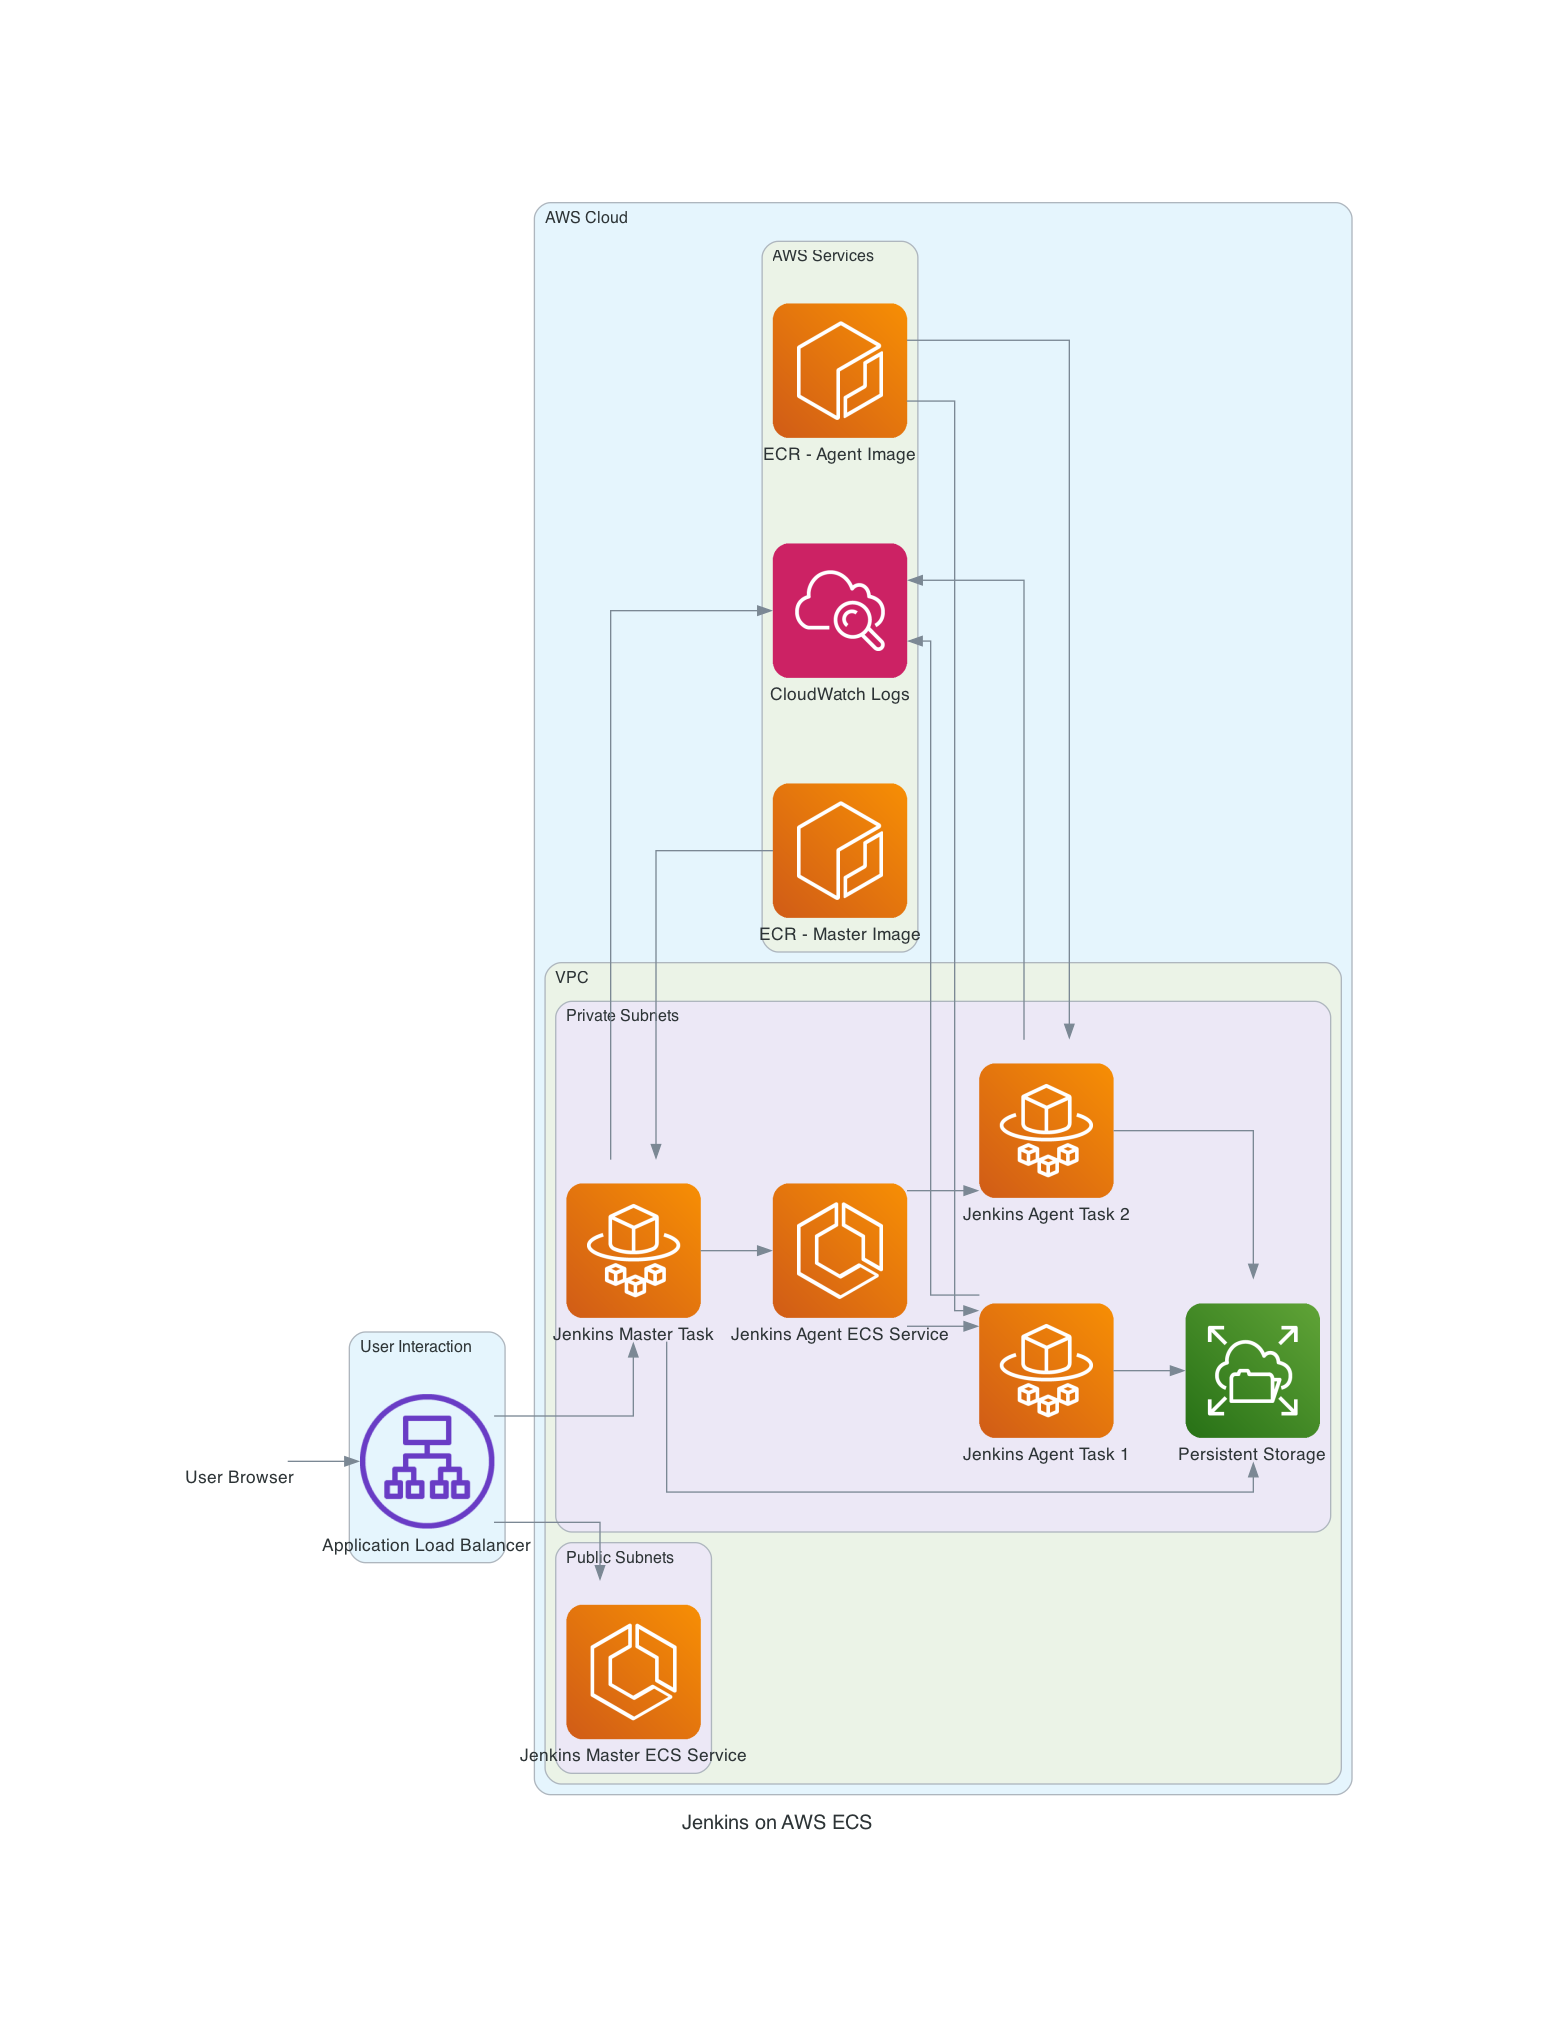
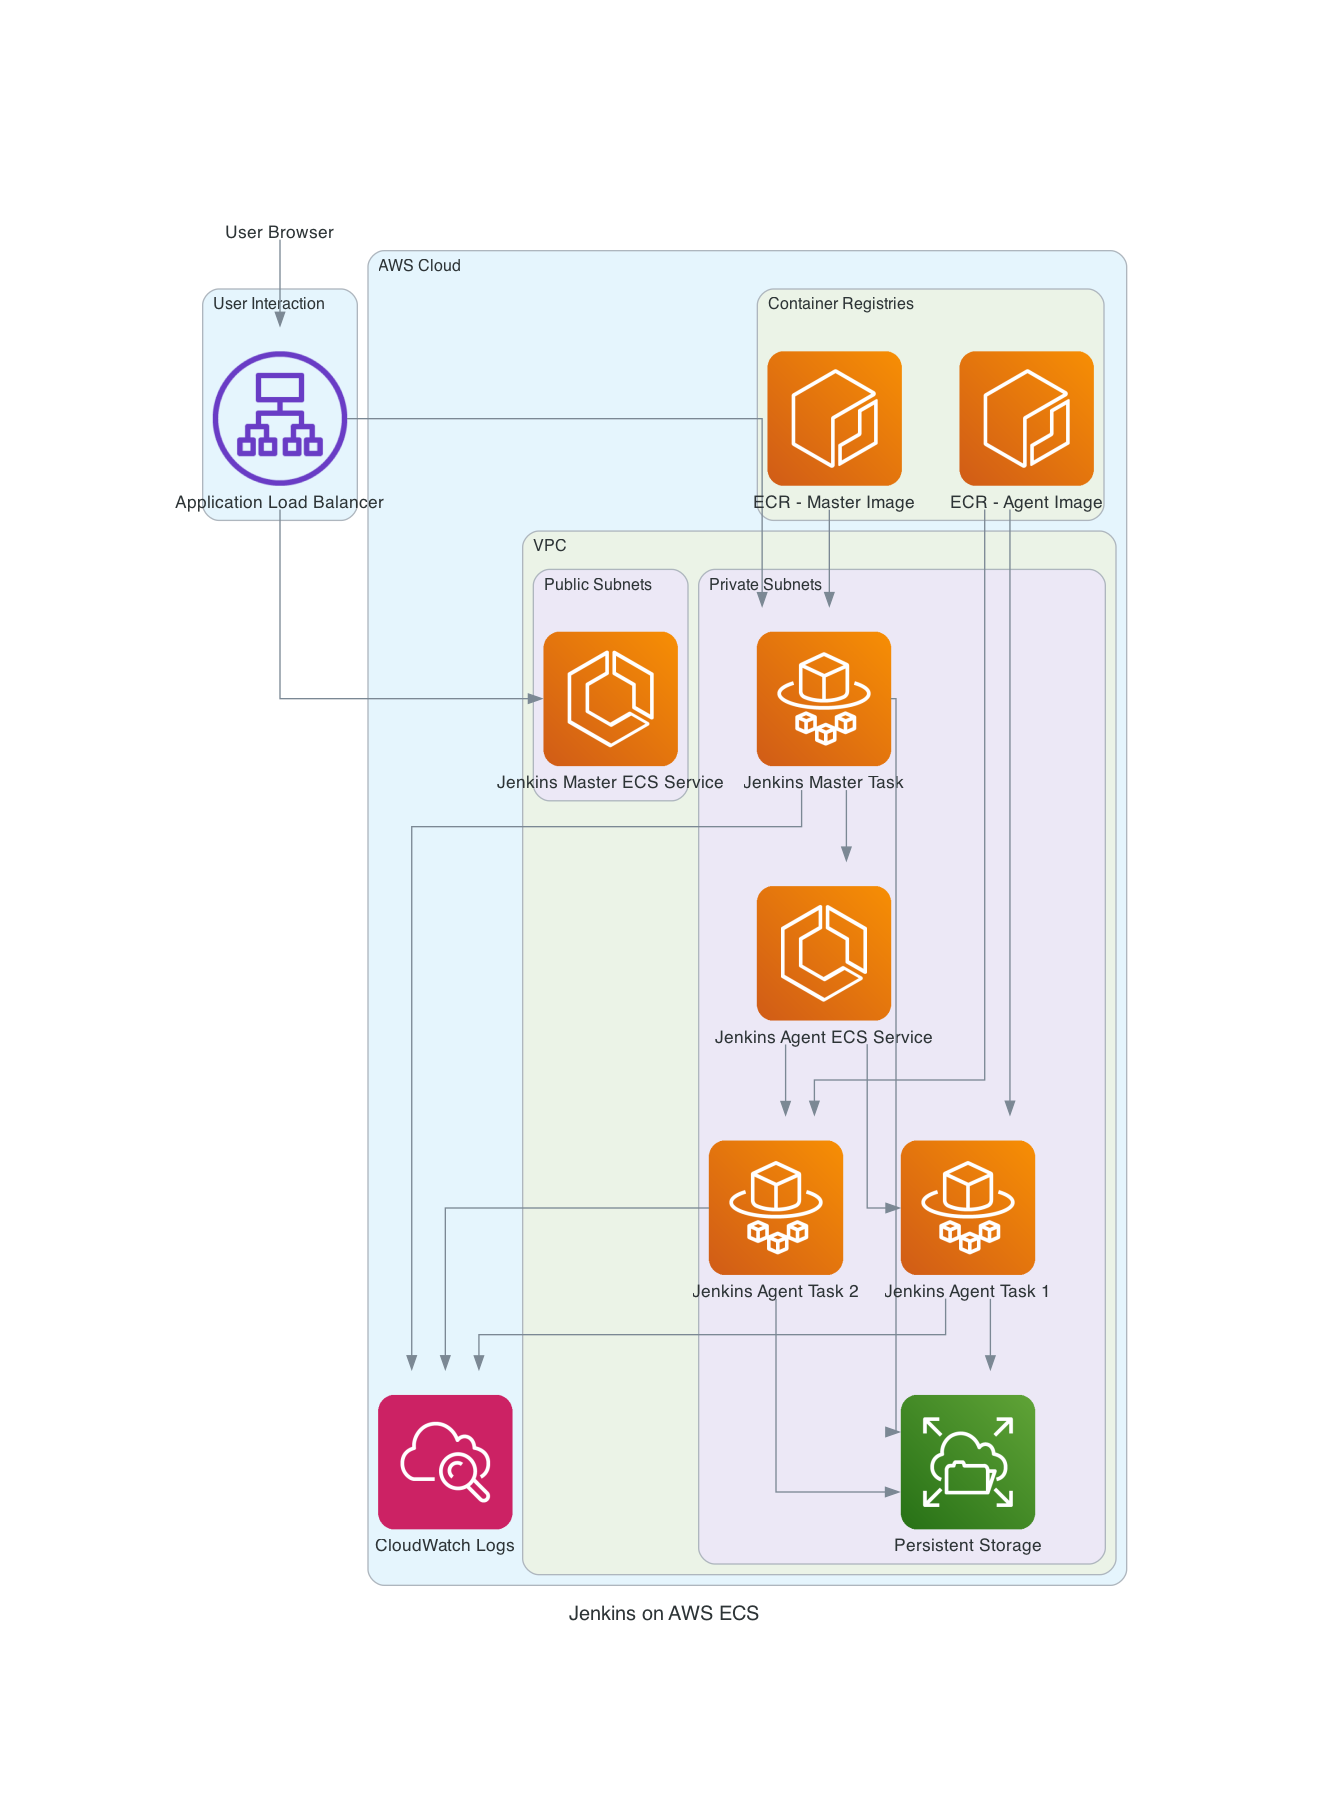
docs: update architecture diagram layout from LR to TB with regrouped services

Changed region(s): [[0.1234, 0.0923, 0.8947, 0.9231], [0.7404, 0.4615, 0.7713, 0.5231], [0.1234, 0.7077, 0.1851, 0.7385]]

diff --git a/docs/generate_diagram.py b/docs/generate_diagram.py
@@ -4,7 +4,7 @@ from diagrams.aws.network import ALB
 from diagrams.aws.storage import EFS
 from diagrams.aws.management import Cloudwatch
 
-with Diagram("Jenkins on AWS ECS", show=False, direction="LR"):
+with Diagram("Jenkins on AWS ECS", show=False, direction="TB"):
     # Using a generic node to represent the user browser
     from diagrams import Node
     user_browser = Node("User Browser", shape="none", height="0.5", width="1.0")
@@ -14,6 +14,12 @@ with Diagram("Jenkins on AWS ECS", show=False, direction="LR"):
         user_browser >> alb
 
     with Cluster("AWS Cloud"):
+        cloudwatch = Cloudwatch("CloudWatch Logs")
+
+        with Cluster("Container Registries"):
+            ecr_master = ECR("ECR - Master Image")
+            ecr_agent = ECR("ECR - Agent Image")
+
         with Cluster("VPC"):
             with Cluster("Public Subnets"):
                 alb >> ECS("Jenkins Master ECS Service")
@@ -25,6 +31,9 @@ with Diagram("Jenkins on AWS ECS", show=False, direction="LR"):
                 jenkins_agent_task_2 = Fargate("Jenkins Agent Task 2")
                 efs = EFS("Persistent Storage")
 
+                ecr_master >> jenkins_master_task
+                ecr_agent >> [jenkins_agent_task_1, jenkins_agent_task_2]
+
                 alb >> jenkins_master_task
                 jenkins_master_task >> jenkins_agent_service
                 jenkins_agent_service >> [jenkins_agent_task_1, jenkins_agent_task_2]
@@ -33,11 +42,4 @@ with Diagram("Jenkins on AWS ECS", show=False, direction="LR"):
                 jenkins_agent_task_1 >> efs
                 jenkins_agent_task_2 >> efs
 
-        with Cluster("AWS Services"):
-            ecr_master = ECR("ECR - Master Image")
-            ecr_agent = ECR("ECR - Agent Image")
-            cloudwatch = Cloudwatch("CloudWatch Logs")
-
-            ecr_master >> jenkins_master_task
-            ecr_agent >> [jenkins_agent_task_1, jenkins_agent_task_2]
-            [jenkins_master_task, jenkins_agent_task_1, jenkins_agent_task_2] >> cloudwatch
+                [jenkins_master_task, jenkins_agent_task_1, jenkins_agent_task_2] >> cloudwatch
